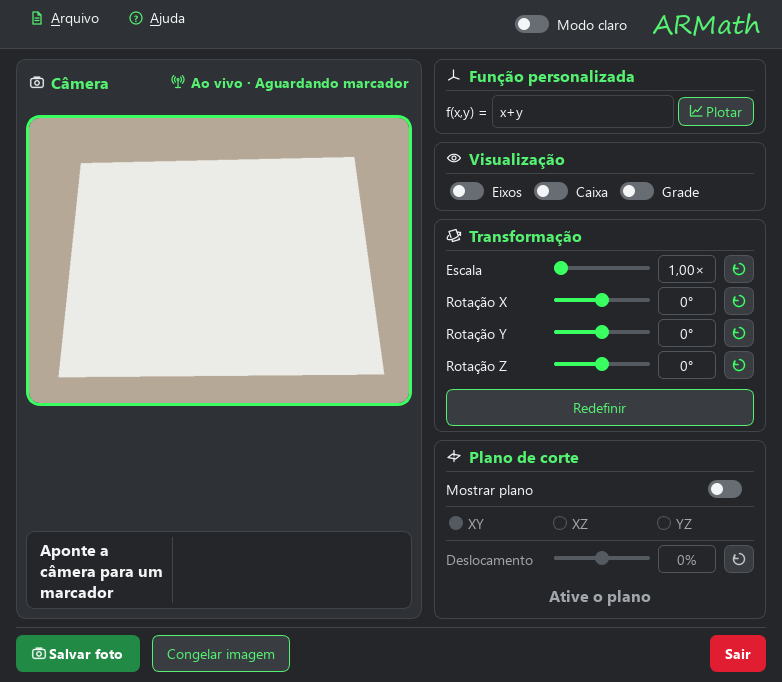
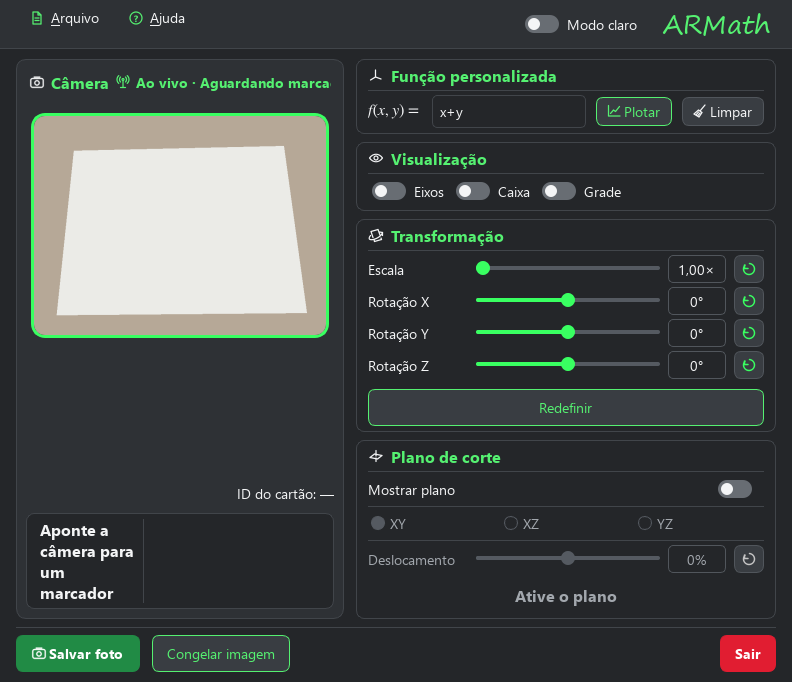
Atualiza o README e as capturas do ARMath 2.0

diff --git a/ARMAth_2.0/README.md b/ARMAth_2.0/README.md
@@ -33,6 +33,8 @@ Experimente `exp(x+y)`, `x^2-y^2` ou `sqrt(x^2+y^2)`. Use `*` para multiplicar e
 
 ![Marcador 9 com função exponencial, equação renderizada e botões Plotar e Limpar](docs/imagens/armath-2-funcao-personalizada.png)
 
+![Campo vazio após clicar em Limpar, com a superfície e a equação ainda visíveis](docs/imagens/armath-2-limpar-funcao.png)
+
 ### Visualização e transformação
 
 | Controle | Como funciona |
@@ -68,13 +70,22 @@ Ative **Mostrar plano** e selecione **XY**, **XZ** ou **YZ**. As opções e o co
 
 | Estado | O que aparece |
 | --- | --- |
-| **Conectando** | A câmera está em inicialização. [Ver captura](docs/imagens/armath-2-conectando.png). |
-| **Ao vivo · Aguardando marcador** | A transmissão está ativa. Mostre um marcador com os quatro cantos visíveis. [Ver captura](docs/imagens/armath-2-aguardando-marcador.png). |
+| **Conectando** | A câmera está em inicialização. |
+| **Ao vivo · Aguardando marcador** | A transmissão está ativa. Mostre um marcador com os quatro cantos visíveis. |
 | **Ao vivo · Marcador reconhecido** | A superfície e a equação estão disponíveis para exploração. |
 | **Imagem congelada** | O quadro exibido fica fixo, com os ajustes de visualização disponíveis. |
 | **Indisponível** | Verifique a webcam e as permissões do Windows. Use o botão amarelo **Reiniciar câmera** para tentar novamente. |
 
+<details>
+<summary>Ver as telas de conexão, espera e recuperação</summary>
+
+![Tela durante a inicialização da câmera](docs/imagens/armath-2-conectando.png)
+
+![Câmera ativa aguardando um marcador, com o ID do cartão vazio](docs/imagens/armath-2-aguardando-marcador.png)
+
 ![Câmera indisponível com botão amarelo Reiniciar câmera](docs/imagens/armath-2-camera-indisponivel.png)
+
+</details>
 
 ### Temas claro e escuro
 
@@ -109,5 +120,7 @@ O seletor ao lado da marca ARMath indica o tema que será ativado. O aplicativo 
 | **Manual do usuário** | Abre o [manual em PDF](docs/Manual_ARMath.pdf), com instruções e marcadores para impressão. |
 | **GitHub do projeto** | Abre a [página do ARMath 2.0 no GitHub](https://github.com/izaiasneri/ARmath/tree/main/ARMAth_2.0). |
 | **Sobre o ARMath** | Exibe a versão e os créditos do aplicativo. |
+
+![Janela Como começar com instruções para usar a webcam e o marcador](docs/imagens/armath-2-como-comecar.png)
 
 ![Janela Sobre o ARMath 2.0](docs/imagens/armath-2-sobre.png)
